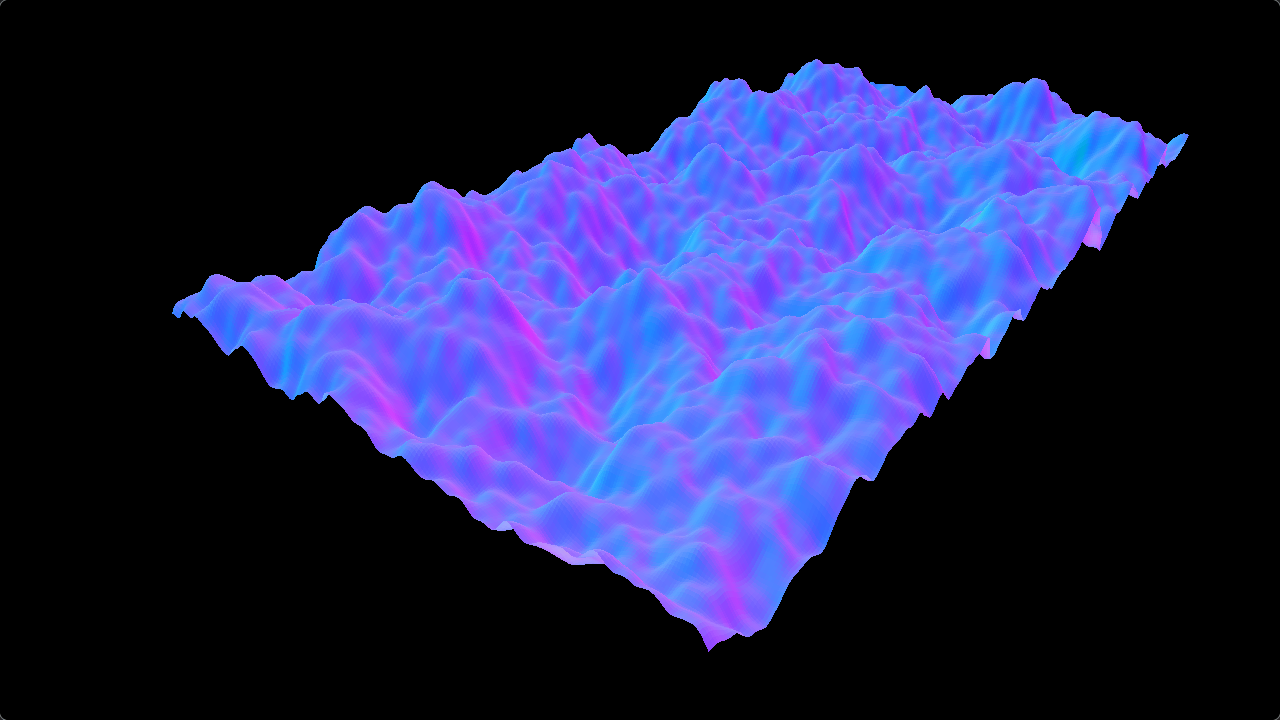
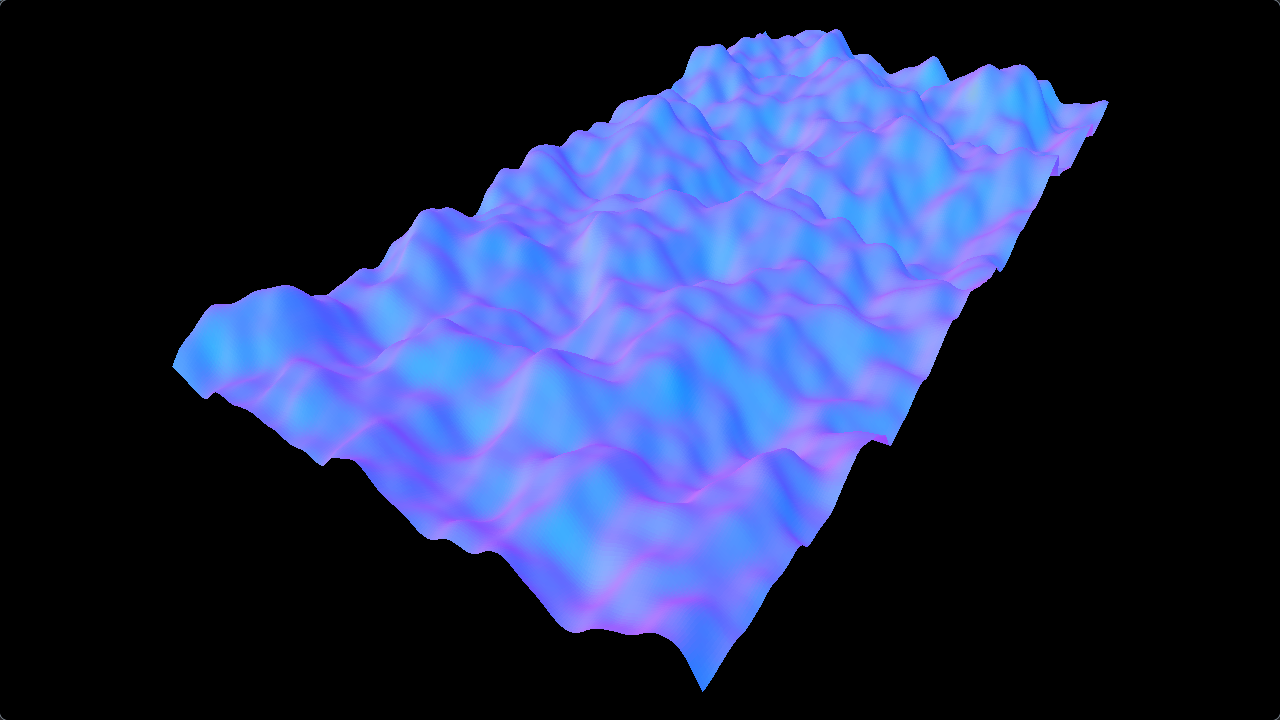
Fix some values that were flipped around

diff --git a/src/renderer.cpp b/src/renderer.cpp
@@ -88,19 +88,18 @@ void Renderer::Display() const {
       };
 
       // Drawing the 2 triangles that make up the grid cell counterclockwise
-      // TODO: Find out why it fits the image better when I swap x and y
-      glVertex3d(resize_y(y), resize_x(x),
+      glVertex3d(resize_x(x), resize_y(y),
                  geo_.height_at(x, y) * height_multiplier);
-      glVertex3d(resize_y(y + 1), resize_x(x),
+      glVertex3d(resize_x(x), resize_y(y + 1),
                  geo_.height_at(x, y + 1) * height_multiplier);
-      glVertex3d(resize_y(y), resize_x(x + 1),
+      glVertex3d(resize_x(x + 1), resize_y(y),
                  geo_.height_at(x + 1, y) * height_multiplier);
 
-      glVertex3d(resize_y(y), resize_x(x + 1),
+      glVertex3d(resize_x(x + 1), resize_y(y),
                  geo_.height_at(x + 1, y) * height_multiplier);
-      glVertex3d(resize_y(y + 1), resize_x(x),
+      glVertex3d(resize_x(x), resize_y(y + 1),
                  geo_.height_at(x, y + 1) * height_multiplier);
-      glVertex3d(resize_y(y + 1), resize_x(x + 1),
+      glVertex3d(resize_x(x + 1), resize_y(y + 1),
                  geo_.height_at(x + 1, y + 1) * height_multiplier);
     }
   }
@@ -156,7 +155,7 @@ void Renderer::PassiveMotion(const int x, const int y) {
 void Renderer::HandleMouseMove(const int x, const int y, const bool active) {
   if (active) {
     camera_.RelativeRotate({0., (y - last_mouse_y_) * kRotateDelta,
-                            (x - last_mouse_x_) * kRotateDelta});
+                            (last_mouse_x_ - x) * kRotateDelta});
   }
   last_mouse_x_ = x;
   last_mouse_y_ = y;

diff --git a/src/camera.h b/src/camera.h
@@ -1,7 +1,7 @@
 #pragma once
 
-#include <cmath>
 #include <glm/ext/matrix_transform.hpp>
+#include <glm/gtc/constants.hpp>
 #define GLM_ENABLE_EXPERIMENTAL
 #include <glm/gtx/rotate_vector.hpp>
 #undef GLM_ENABLE_EXPERIMENTAL
@@ -38,10 +38,10 @@ class Camera {
     return glm::cross(up_vector(), look_vector());
   }
 
-  glm::dvec3 position_{0., 0., -2.};
+  glm::dvec3 position_{0., 0., 2.};
   // This vector is not physically representative of the camera's rotation,
   // rather the x component controls the roll, the y component controls the
   // pitch, and the z component controls the yaw.
-  glm::dvec3 rotation_{0., -M_PI_2, 0.};
+  glm::dvec3 rotation_{0., glm::half_pi<double>(), 0.};
   double aspect_{1.};
 };

diff --git a/src/constants.h b/src/constants.h
@@ -2,5 +2,5 @@
 
 #include <cstdlib>
 
-constexpr std::size_t kGeographyWidth{1 << 9};
-constexpr std::size_t kGeographyLength{1 << 8};
+constexpr std::size_t kGeographyWidth{1 << 8};
+constexpr std::size_t kGeographyLength{1 << 9};
